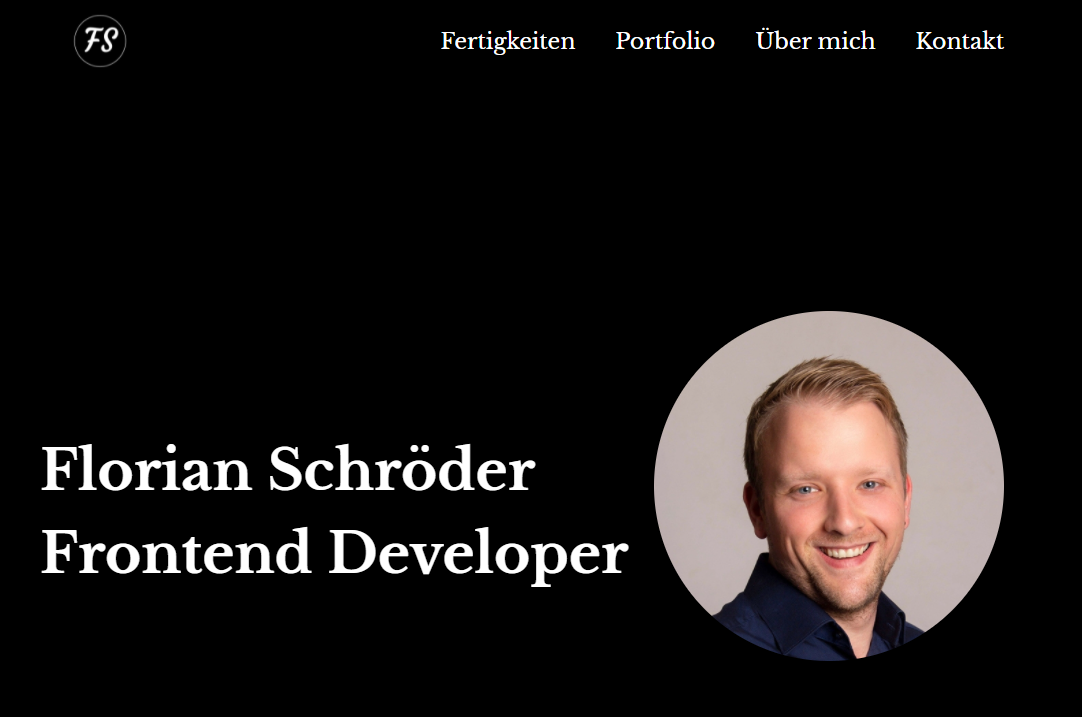
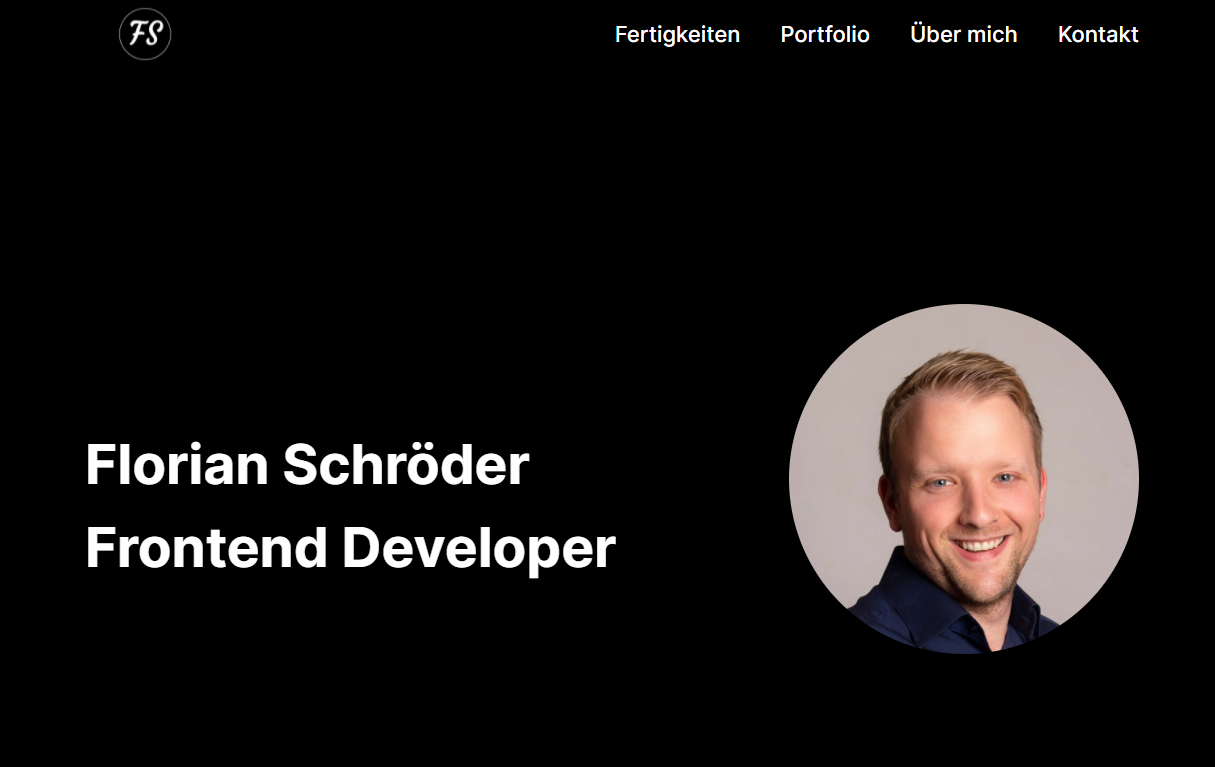
v.1.0

diff --git a/src/app/mywork/mywork.component.html b/src/app/mywork/mywork.component.html
@@ -9,7 +9,7 @@
     <div class="overview-projects">
         <div class="overview-container">
             <div id="project-img" *ngIf="showMeall">
-                <div id="project-text">
+                <div class="programming-language2" id="project-text">
                     <p>Webseite Sakura Ramen</p>
                 </div>
                 <div id="link">
@@ -19,7 +19,7 @@
             </div>
 
             <div id="project-img" *ngIf="showMeJavascript">
-                <div id="project-text" >
+                <div class="programming-language2"  id="project-text" >
                     <p>Pokedex mit API</p>
                 </div>
                 <div id="link">
@@ -31,7 +31,7 @@
 
         <div class="overview-container">
             <div id="project-img" *ngIf="showMeJavascript">
-                <div id="project-text">
+                <div class="programming-language2" id="project-text">
                     <p>QuizApp</p>
                 </div>
                 <div id="link">
@@ -41,7 +41,7 @@
                 </div>
             </div>
             <div id="project-img" *ngIf="showMeAngular">
-                <div id="project-text">
+                <div class="programming-language2"  id="project-text">
                     <p>Portfolio</p>
                 </div>
                 <div id="link">
@@ -54,7 +54,7 @@
 
         <div class="overview-container">
             <div id="project-img" *ngIf="showMeAngular">
-                <div id="project-text">
+                <div class="programming-language2"  id="project-text">
                     <p>Ring of Fire</p>
                 </div>
                 <div id="link">
@@ -62,7 +62,7 @@
                 </div>
             </div>
             <div id="project-img" *ngIf="showMeJavascript">
-                <div id="project-text">
+                <div class="programming-language2"  id="project-text">
                     <p>El Pollo Loco (in Bearbeitung)</p>
                 </div>
                 <div id="link">

diff --git a/src/app/menu/menu.component.scss b/src/app/menu/menu.component.scss
@@ -47,16 +47,45 @@ header {
     box-shadow: 0px 1px 3px 0 rgba(0, 0, 0, 0.2);
 }
 
-@media (max-width: 850px) {
+/* Add a black background color to the top navigation */
+.menu {
+    overflow: hidden;
+}
+
+/* Style the links inside the navigation bar */
+.menu a {
+    float: left;
+    display: block;
+    color: #f2f2f2;
+    text-align: center;
+    padding: 8px 16px;
+    text-decoration: none;
+    font-size: 17px;
+}
+
+/* Change the color of links on hover */
+.menu a:hover {
+    color: rgba(255, 255, 255, 0.8);
+}
+
+/* Add an active class to highlight the current page */
+.menu a.active {
+    color: white;
+}
+
+.menu .icon {
+    display: none;
+}
+
+@media (max-width: 1040px) {
     header {
         padding-left: unset;
         padding-right: unset;
-        justify-content: space-around;
-       
+        justify-content: space-between;
 
         a {
             font-size: 10px;
-            margin-left: 10px;
+            margin-left: 10;
         }
         img {
             width: 110px;
@@ -67,5 +96,33 @@ header {
     .menu {
         padding-right: 15px;
     }
+}
 
+@media screen and (max-width: 1040px) {
+    .menu a:not(:first-child) {
+        display: none;
+    }
+    .menu a.icon {
+        float: right;
+        display: block;
+    }
+}
+
+@media screen and (max-width: 1040px) {
+    .menu.responsive {
+        position: relative;
+        top: 50px;
+    }
+    .menu.responsive a.icon {
+        position: absolute;
+        right: 0px;
+        top: 0;
+    }
+    .menu.responsive a {
+        float: none;
+        display: block;
+        text-align: left;
+        position: relative;
+        right: 50px;
+    }
 }

diff --git a/src/app/menu/menu.component.html b/src/app/menu/menu.component.html
@@ -1,15 +1,19 @@
 <header>
 
 
-    
-    <img src="assets/imgs/LogoMakr.png">
 
-    <div class="menu" >
-        <a class="menu1" href="#skills">Fertigkeiten</a>
-        <a class="menu1" href="#projects">Portfolio</a>
-        <a class="menu1" href="#about">Über mich</a>
-        <a class="menu1" href="#contact">Kontakt</a>
+    <img routerLink="/" src="assets/imgs/LogoMakr.png">
 
+    <div class="menu" id="myTopnav">
+        <a href="javascript:void(0);" class="icon" (click)="myFunction()">
+            <i class="fa fa-bars"></i>
+        </a>
+        <a class="" href="#skills">Fertigkeiten</a>
+        <a class="" href="#projects">Portfolio</a>
+        <a class="" href="#about">Über mich</a>
+        <a class="" href="#contact">Kontakt</a>
+       
+        
     </div>
 
 </header>

diff --git a/src/index.html b/src/index.html
@@ -10,7 +10,7 @@
   <link
     href="https://fonts.googleapis.com/css2?family=Inter:wght@100;200;300;400;500;600;700;800;900&family=Libre+Baskerville:ital,wght@0,400;0,700;1,400&family=PT+Sans:ital,wght@0,400;0,700;1,400;1,700&family=Playfair+Display:ital,wght@0,400;0,500;0,600;0,700;0,800;0,900;1,400;1,500;1,600;1,700;1,800;1,900&family=Rubik:wght@400;500&display=swap"
     rel="stylesheet">
-
+  <link rel="stylesheet" href="https://cdnjs.cloudflare.com/ajax/libs/font-awesome/4.7.0/css/font-awesome.min.css">
   <base href="/">
   <meta name="viewport" content="width=device-width, initial-scale=1">
   <link rel="icon" type="image/x-icon" href="assets\imgs\LogoMakrtitle.png">

diff --git a/src/app/about-me/about-me.component.scss b/src/app/about-me/about-me.component.scss
@@ -65,6 +65,19 @@
     align-items: center;
 }
 
+.img-text2 {
+    width: 250px;
+    height: 350px;
+    margin: 30px;
+    margin-top: 60px;
+    margin-bottom: 60px;
+    text-align: center;
+    color: white;
+    display: flex;
+    flex-direction: column;
+    align-items: center;
+}
+
 .img-journey {
     width: 50px;
     height: 50px;
@@ -80,7 +93,8 @@
     }
 }
 
-@media (max-width: 850px) {
+
+@media (max-width: 1200px) {
     .about {
         flex-direction: column;
         padding: unset;
@@ -107,5 +121,9 @@
         margin: unset;
         margin-top: 20px;
         margin-bottom: unset;
+    }
+
+    .img-text2 {
+        height: 230px;
     }
 }

diff --git a/src/app/app-routing.module.ts b/src/app/app-routing.module.ts
@@ -1,12 +1,12 @@
 import { NgModule } from '@angular/core';
-import { RouterModule, Routes } from '@angular/router';
-import { DataProtectionComponent } from './data-protection/data-protection.component';
+import { Routes, RouterModule} from '@angular/router';
+import { HomeComponent } from './home/home.component';
 import { ImpressumComponent } from './impressum/impressum.component';
 
 
 const routes: Routes = [
+  
   { path: 'impressum', component: ImpressumComponent },
-  { path: 'data-protection', component: DataProtectionComponent }
 
 ];
 

diff --git a/src/app/mywork/mywork.component.scss b/src/app/mywork/mywork.component.scss
@@ -59,6 +59,22 @@
     }
 }
 
+.programming-language2{
+    width:auto;
+    height: 35px;
+    border: 2px solid #fa2759;
+    box-sizing: border-box;
+    display: flex;
+    flex-direction: column;
+    justify-content: center;
+    align-items: center;
+    background-color: black;
+
+    p {
+        margin: 5px;
+    }
+}
+
 #project-img {
     margin: 20px;
     width: 406px;
@@ -75,7 +91,7 @@
 
     :hover {
         display: block;
-        opacity: 0.5;
+        opacity: 0.4;
         transform: scale(1.03);
     }
 }

diff --git a/src/app/menu/menu.component.ts b/src/app/menu/menu.component.ts
@@ -6,13 +6,21 @@ import { Component, Input, OnInit } from '@angular/core';
   styleUrls: ['./menu.component.scss']
 })
 export class MenuComponent implements OnInit {
+  x = document.getElementById("myTopnav");
   @Input() darkMode = true;
   constructor() { }
 
   ngOnInit(): void {
   }
 
- 
+  myFunction() {
+    this.x = document.getElementById("myTopnav");
+    if (this.x!.className === "menu") {
+        this.x!.className += " responsive";
+    } else {
+      this.x!.className = "menu";
+    }
+  }
 
   
 }

diff --git a/src/app/app.component.ts b/src/app/app.component.ts
@@ -1,4 +1,4 @@
-import { Component } from '@angular/core';
+import { Component, OnInit } from '@angular/core';
 import { Router } from '@angular/router';
 
 @Component({
@@ -7,10 +7,14 @@ import { Router } from '@angular/router';
   styleUrls: ['./app.component.scss']
 })
 export class AppComponent {
+  
   title = 'Schröder Florian';
   
   
   constructor(public router:Router) {}
+
+
+  
 }
 
   

diff --git a/src/app/about-me/about-me.component.html b/src/app/about-me/about-me.component.html
@@ -21,7 +21,7 @@
                 zur Selbstbedienung und bargeldlosen Abwicklung.
             </p>
         </div>
-        <div class="img-text" style="height: 260px;">
+        <div class="img-text2" >
             <div class="img-journey">
                 <img src="assets\icons\heart-line.png">
             </div>

diff --git a/src/app/impressum/impressum.component.html b/src/app/impressum/impressum.component.html
@@ -1,3 +1,4 @@
+<div class="impressum">
 <h1>Impressum</h1><br>
 
 Angaben gemäß § 5 TMG <br>
@@ -12,3 +13,5 @@ Florian Schröder <br>
 <h3>Kontakt:</h3> <br>
 Telefon: 0160-7272771 <br>
 E-Mail: f.schroeder.1988@web.de <br>
+
+</div>

diff --git a/src/app/footer/footer.component.html b/src/app/footer/footer.component.html
@@ -1,7 +1,6 @@
 <div class="footer">
     <div class="footer-text">
-        <a href="#impressum">Impressum - Legal Notice</a>
-       
+       <a routerLink="/impressum">Impressum </a>
     </div>
 
     <div class="social">
